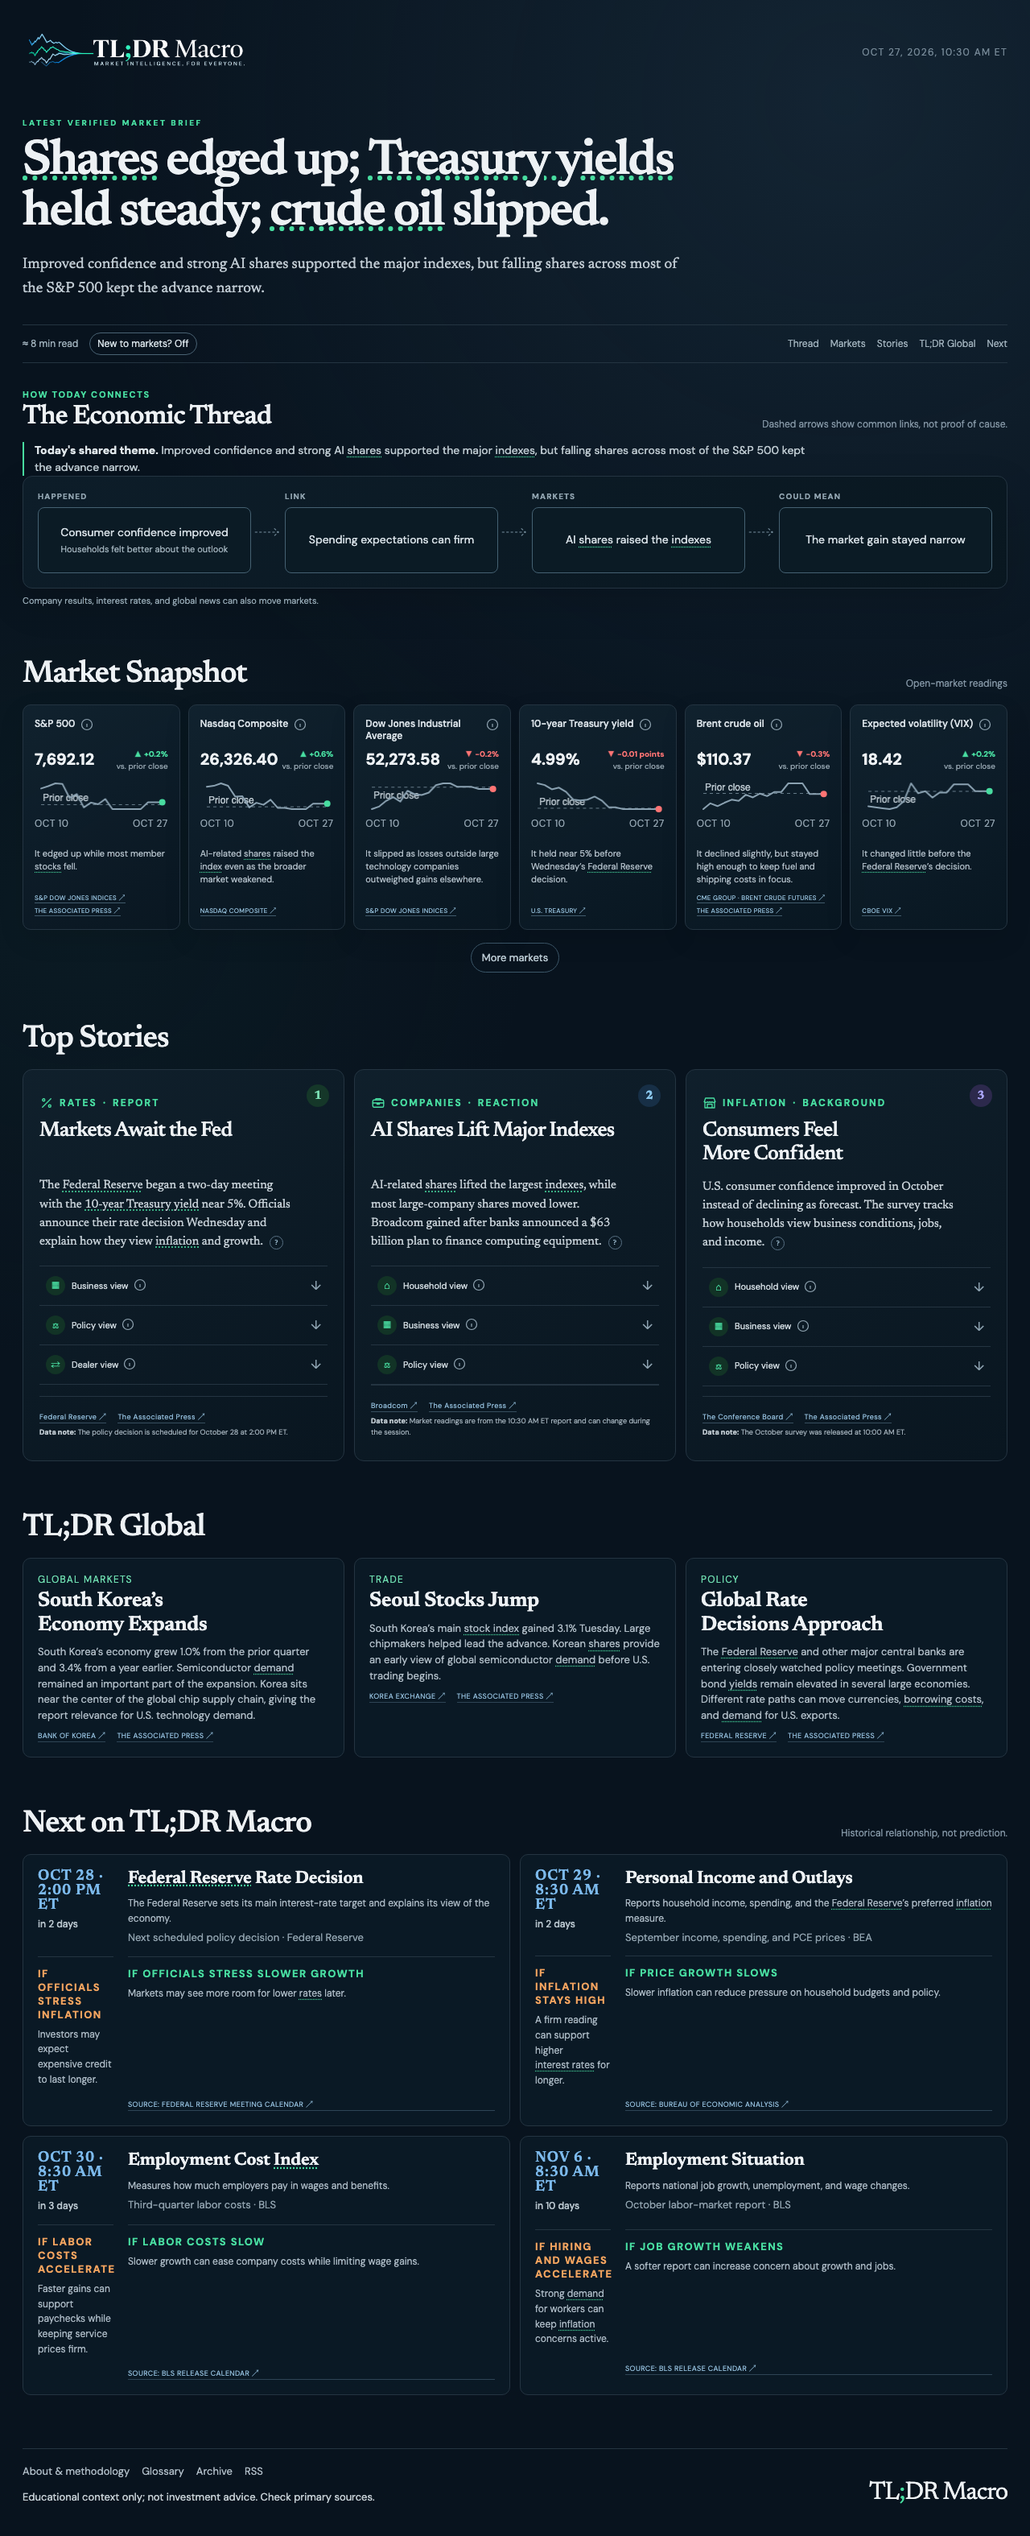
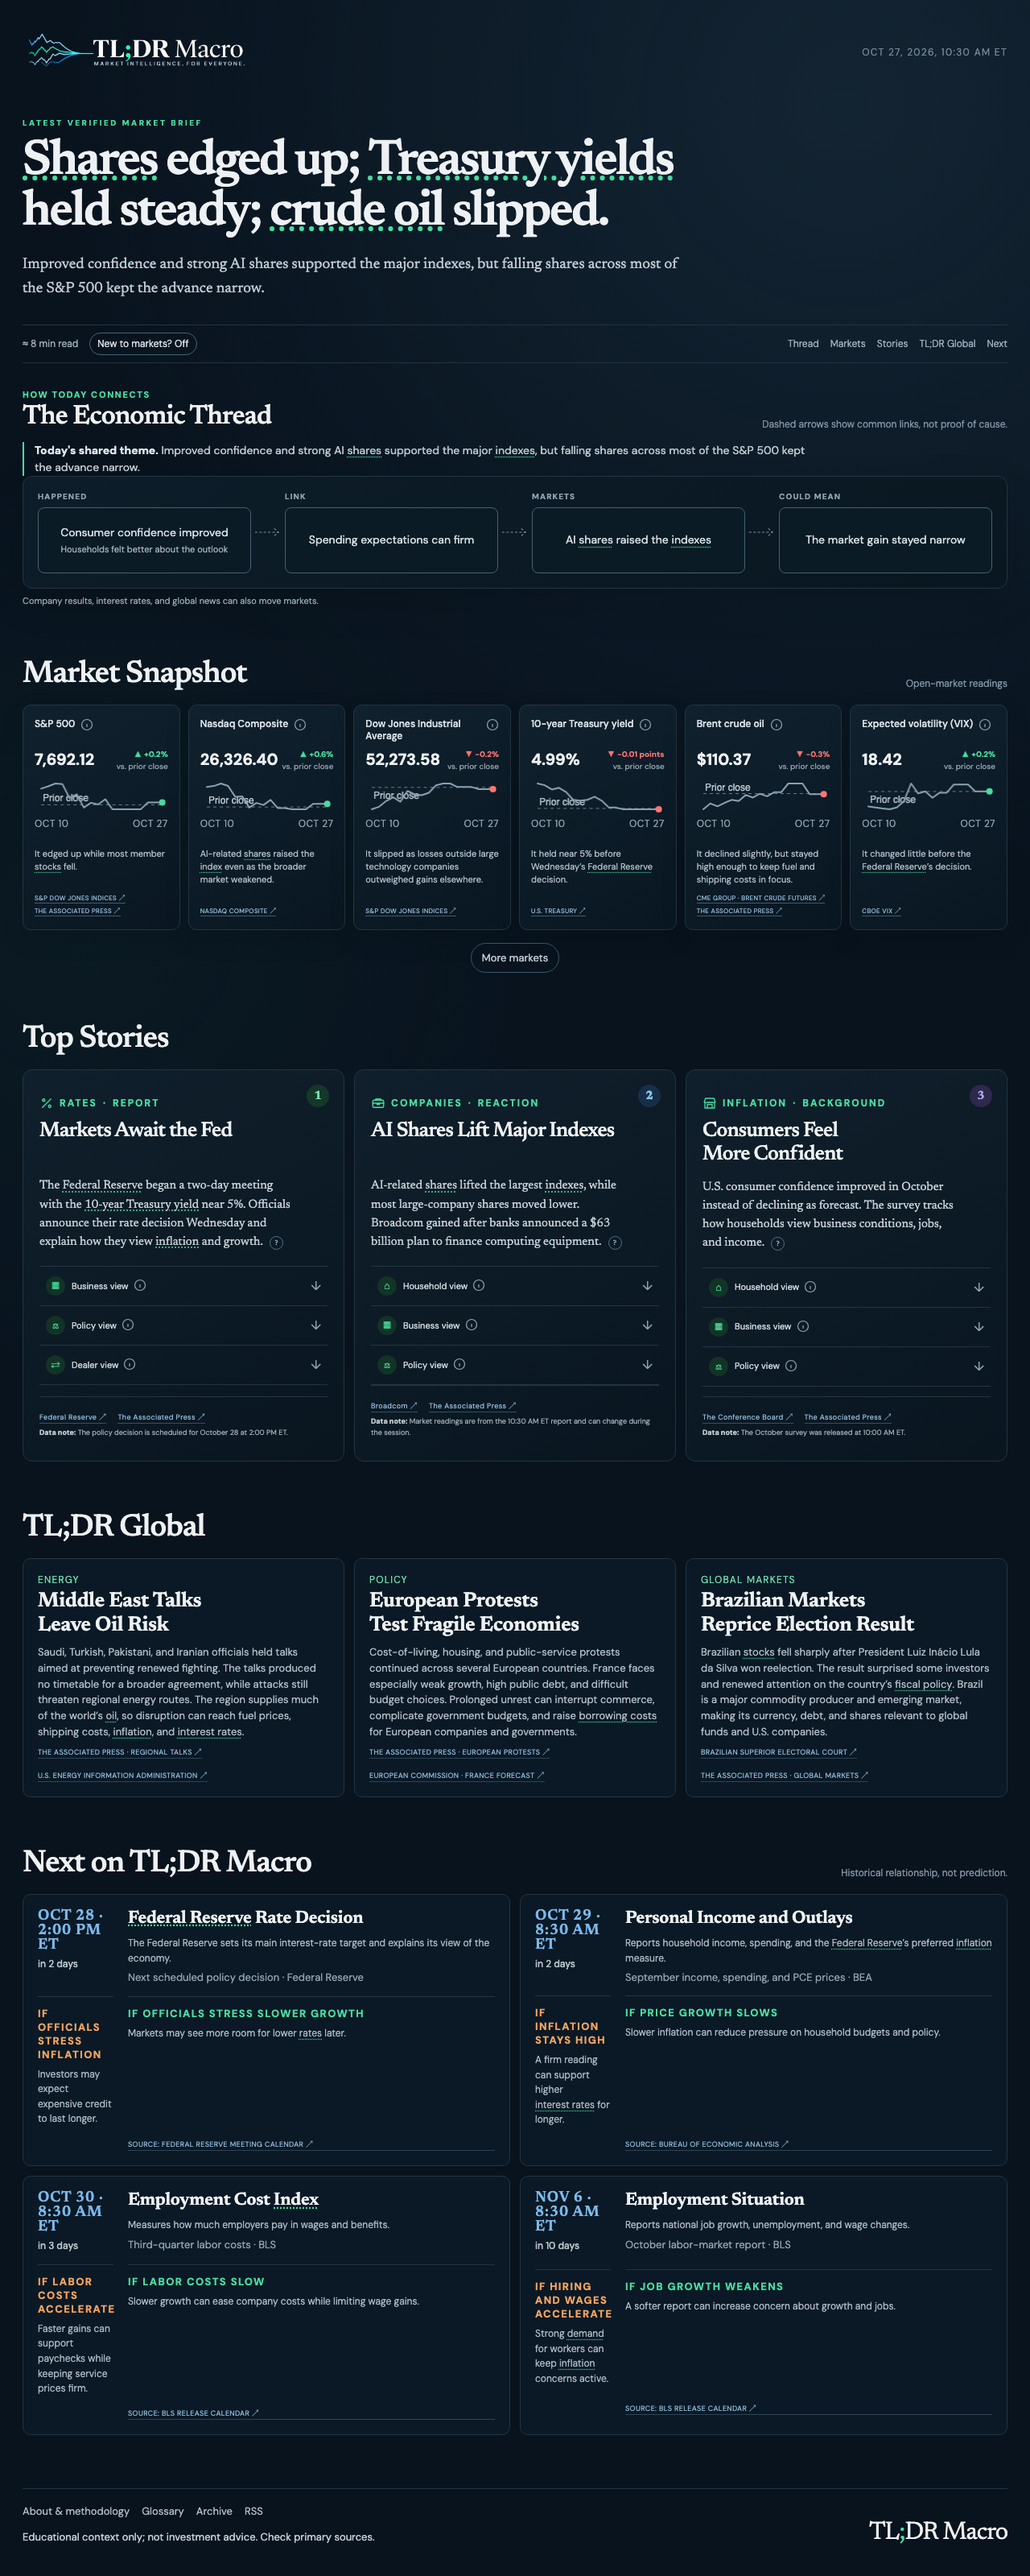
Broaden global market coverage

diff --git a/DATA_REPORT.md b/DATA_REPORT.md
@@ -1,6 +1,6 @@
 # Data Report
 
-Generated: 2026-10-27T14:58:40.856Z
+Generated: 2026-10-27T15:27:08.681Z
 
 | Instrument | Provider | Series | Frequency | Latest timestamp | Baseline | Chart points | Status |
 |---|---|---|---|---|---|---:|---|

diff --git a/VERIFY_REPORT.md b/VERIFY_REPORT.md
@@ -1,6 +1,6 @@
 # Verification report
 
-Generated: 2026-10-27T14:58:37.937Z
+Generated: 2026-10-27T15:27:05.657Z
 Edition: 2026-10-27
 Status: PASSED
 
